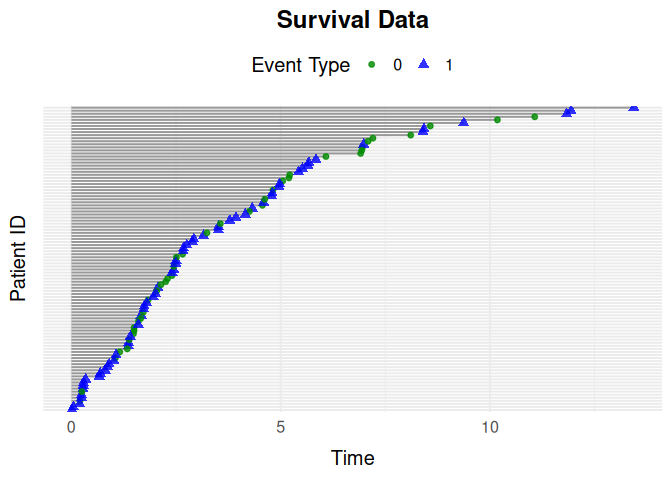
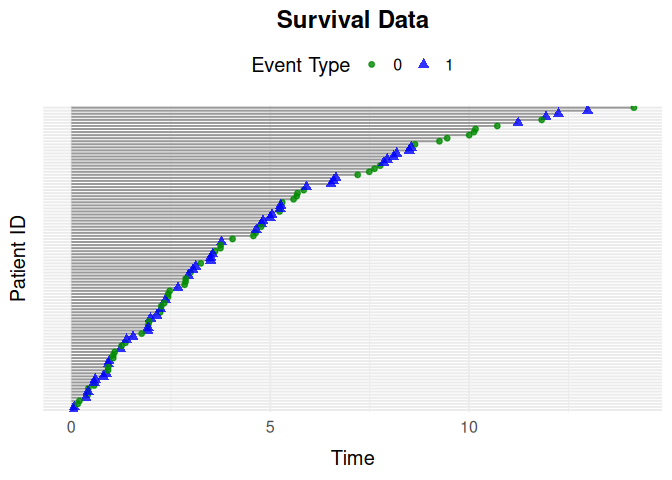
Add codecov workflow+badges

diff --git a/README.md b/README.md
@@ -3,6 +3,10 @@
 
 <!-- badges: start -->
 
+[![CRAN
+status](https://www.r-pkg.org/badges/version/simevent)](https://CRAN.R-project.org/package=simevent)
+[![Codecov test
+coverage](https://codecov.io/gh/BjarkeHautop/simevent/graph/badge.svg)](https://app.codecov.io/gh/BjarkeHautop/simevent)
 <!-- badges: end -->
 
 The `simevent` package provides tools for simulating and analyzing
